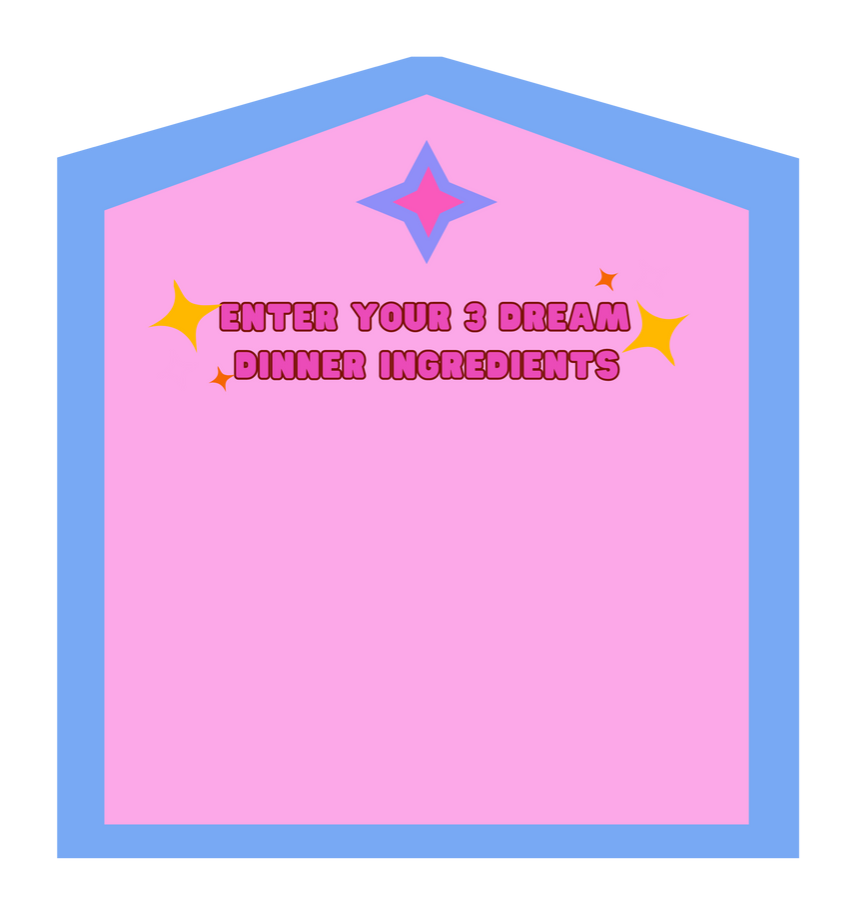
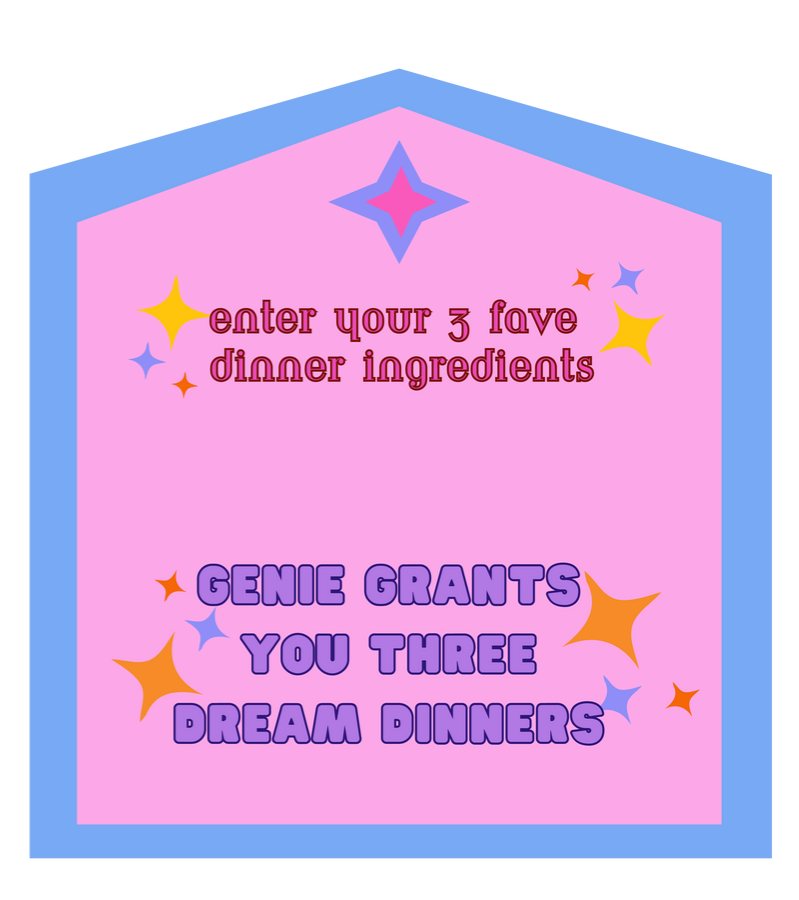
added js to scroll on submit click, reformatted input section

diff --git a/assets/js/script.js b/assets/js/script.js
@@ -88,6 +88,7 @@ function loadIngredients() {
     });
   });
 }
+var scroll = document.querySelector('#recipes');
 
 function fetchRecipe() {
   // ingredientsArray = JSON.parse(localStorage.getItem('ingredients'))
@@ -111,6 +112,7 @@ function fetchRecipe() {
     .then((response) => {
       recipeToPage(response);
       // render page using response variable
+      scroll.scrollIntoView({ behavior: 'smooth' });
     })
     .catch((err) => console.error(err));
 }
@@ -129,9 +131,6 @@ function recipeToPage(recipes) {
     .css({ 'font-size': '1.3rem', 'font-weight': 'bold', 'word-wrap': 'break-word'});
     contentWrapper.append(recipeName);
 
-   // const recipeImage = $('<img>', {
-   //    src: 'file:///C:/Users/parkoperationsmanager/bootcamp/Class Activities/07-Project-1/TeamProjectUpdated/Team-Project/assets/images/wish1.png'
-   // });
     const recipeImage = $('<img></img>')
       .attr('src', recipe.image)
       .attr('alt', recipe.title)

diff --git a/index.html b/index.html
@@ -34,7 +34,8 @@
     <div class="grid grid-cols-1 md:grid-cols-2">
       <div class="col-span-1 flex items-center justify-center bg-cover bg-center"
         style="background-image: url('./assets/images/textbox.png')">
-        <!-- <form> -->
+        <p><span class="tooltip fa-sharp fa-solid fa-wand-magic-sparkles"
+            title="Press ADD after each ingredient. Press SUBMIT after entering all three."></span></p>
 
         <div>
           <input
@@ -50,7 +51,6 @@
         </div>
 
         <div id="warning"></div>
-        <!--ask bella if this is where it needs to be placed-->
         <div id="badges"><br /></div>
 
         <div>

diff --git a/assets/css/style.css b/assets/css/style.css
@@ -19,3 +19,22 @@
   height: auto; /* Set height to auto, so it can adjust with the content */
   min-height: 400px; /* Set a minimum height to ensure enough space for the content */
 }
+
+.tooltip {
+  position: relative;
+}
+
+.tooltip:hover::before {
+  content: attr(title);
+  display: block;
+  position: absolute;
+  top: 100%;
+  left: 50%;
+  transform: translate(-50%, 0);
+  padding: 0.5em;
+  background-color: #2e1678;
+  color: #fff;
+  border-radius: 0.25em;
+  font-size: 0.8em;
+}
+
